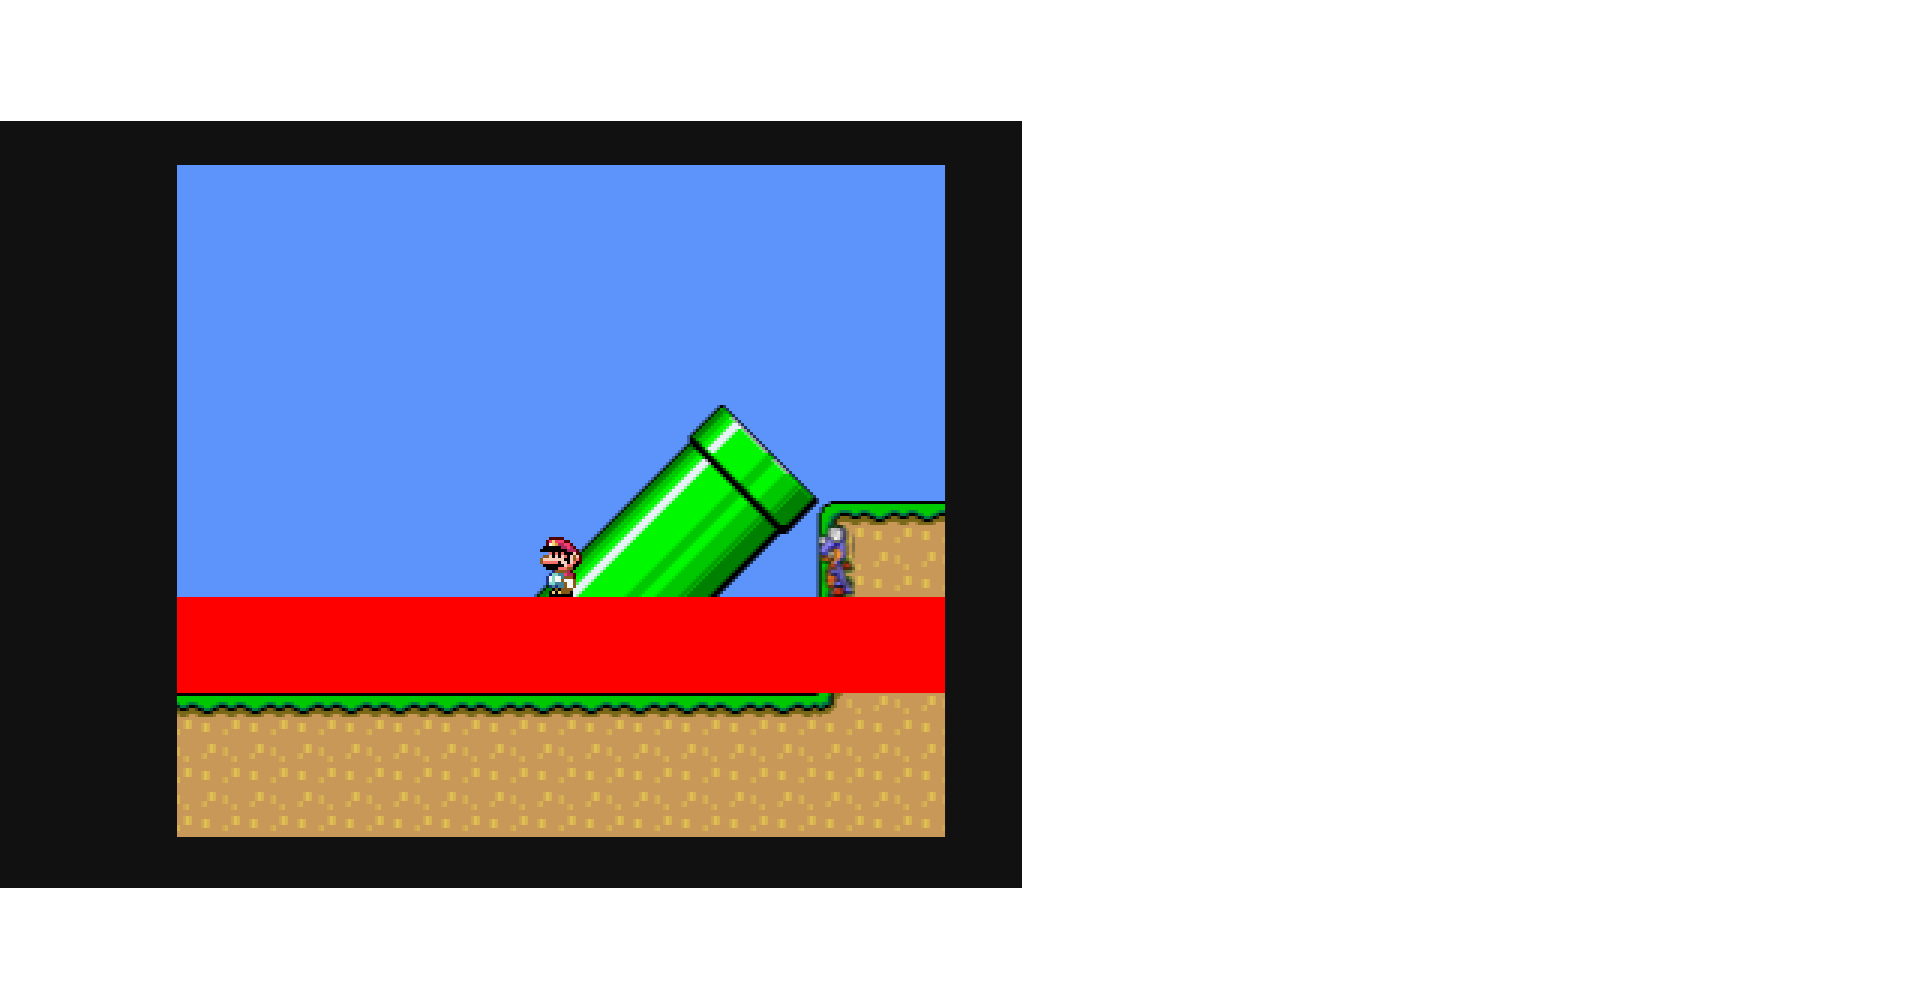
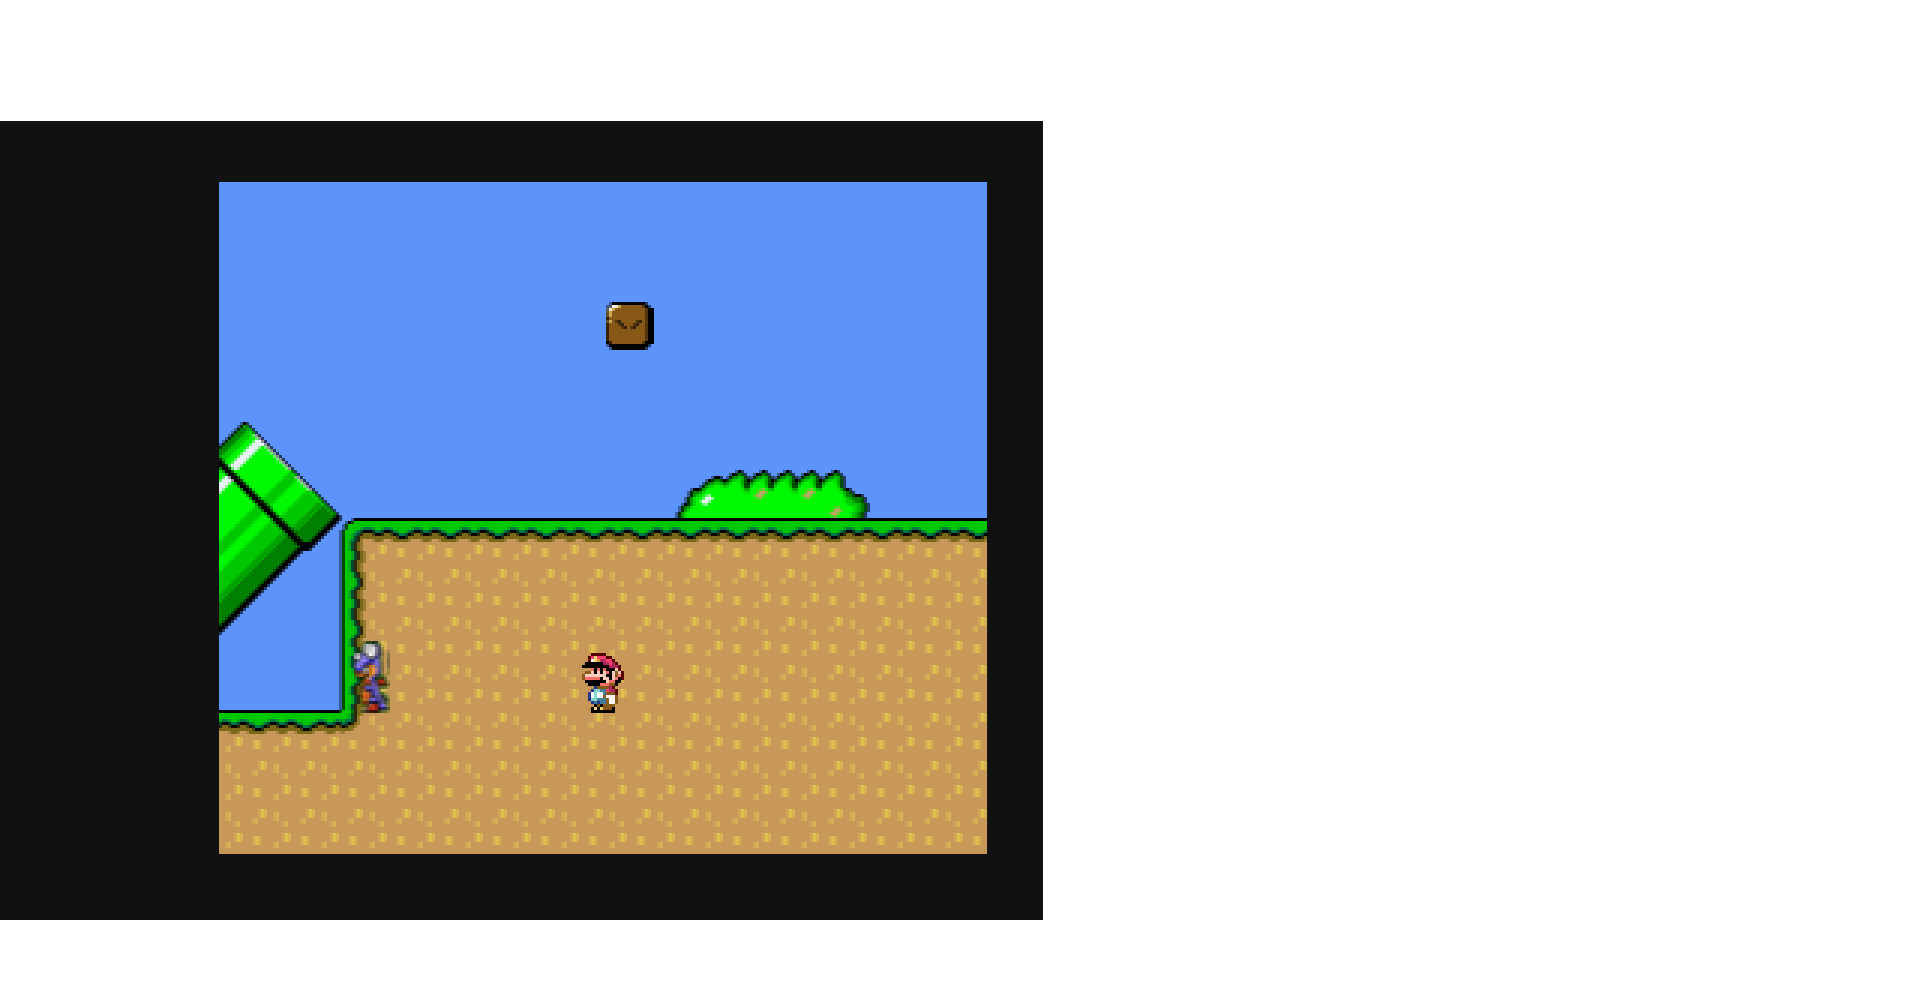
fix: Move pipe collision to correct position, jump=12, gravity=1.0

Changed region(s): [[0.0, 0.1221, 0.5537, 0.9461], [0.3076, 0.3052, 0.3384, 0.3662]]

diff --git a/projects/mario/static/game.html b/projects/mario/static/game.html
@@ -113,7 +113,7 @@
 --&gt;
 &lt;q:application id=&quot;yoshi-island-1&quot; type=&quot;game&quot; engine=&quot;2d&quot;&gt;
   &lt;qg:scene name=&quot;main&quot; width=&quot;5120&quot; height=&quot;432&quot; viewport-width=&quot;256&quot; viewport-height=&quot;224&quot; background=&quot;#5C94FC&quot;&gt;
-    &lt;qg:physics gravity-y=&quot;1.5&quot; /&gt;
+    &lt;qg:physics gravity-y=&quot;1.0&quot; /&gt;
     &lt;qg:camera follow=&quot;mario&quot; lerp=&quot;0.08&quot; bounds=&quot;scene&quot; offset-y=&quot;-80&quot; /&gt;
 
     &lt;!-- Game state --&gt;
@@ -173,51 +173,15 @@
     &lt;qg:sprite id=&quot;ground&quot; width=&quot;5120&quot; height=&quot;32&quot; x=&quot;2560&quot; y=&quot;401&quot;
                tag=&quot;terrain&quot; body=&quot;static&quot; visible=&quot;false&quot; /&gt;
 
-    &lt;!-- Diagonal pipe - DEBUG: visible green boxes --&gt;
-    &lt;qg:sprite id=&quot;pipe1-base&quot; width=&quot;48&quot; height=&quot;48&quot; x=&quot;924&quot; y=&quot;361&quot;
+    &lt;!-- Diagonal pipe near start (x≈180-280) - stair collision DEBUG --&gt;
+    &lt;qg:sprite id=&quot;pipe1-1&quot; width=&quot;40&quot; height=&quot;32&quot; x=&quot;200&quot; y=&quot;369&quot;
                tag=&quot;terrain&quot; body=&quot;static&quot; color=&quot;#00FF00&quot; /&gt;
-    &lt;qg:sprite id=&quot;pipe1-mid&quot; width=&quot;48&quot; height=&quot;48&quot; x=&quot;972&quot; y=&quot;329&quot;
+    &lt;qg:sprite id=&quot;pipe1-2&quot; width=&quot;40&quot; height=&quot;32&quot; x=&quot;230&quot; y=&quot;345&quot;
                tag=&quot;terrain&quot; body=&quot;static&quot; color=&quot;#00FF00&quot; /&gt;
-    &lt;qg:sprite id=&quot;pipe1-top&quot; width=&quot;48&quot; height=&quot;48&quot; x=&quot;1020&quot; y=&quot;297&quot;
+    &lt;qg:sprite id=&quot;pipe1-3&quot; width=&quot;40&quot; height=&quot;32&quot; x=&quot;260&quot; y=&quot;321&quot;
                tag=&quot;terrain&quot; body=&quot;static&quot; color=&quot;#00FF00&quot; /&gt;
-
-    &lt;!-- Vertical pipes (x=1100-1200) --&gt;
-    &lt;qg:sprite id=&quot;pipe2&quot; width=&quot;32&quot; height=&quot;64&quot; x=&quot;1136&quot; y=&quot;353&quot;
-               tag=&quot;terrain&quot; body=&quot;static&quot; visible=&quot;false&quot; /&gt;
-    &lt;qg:sprite id=&quot;pipe3&quot; width=&quot;32&quot; height=&quot;96&quot; x=&quot;1200&quot; y=&quot;337&quot;
-               tag=&quot;terrain&quot; body=&quot;static&quot; visible=&quot;false&quot; /&gt;
-
-    &lt;!-- Elevated platform section (x=2400-2800) --&gt;
-    &lt;qg:sprite id=&quot;platform1&quot; width=&quot;400&quot; height=&quot;32&quot; x=&quot;2600&quot; y=&quot;337&quot;
-               tag=&quot;terrain&quot; body=&quot;static&quot; visible=&quot;false&quot; /&gt;
-
-    &lt;!-- Ramp up to platform (x=2200-2400) - stair steps --&gt;
-    &lt;qg:sprite id=&quot;ramp1-1&quot; width=&quot;64&quot; height=&quot;16&quot; x=&quot;2232&quot; y=&quot;377&quot;
-               tag=&quot;terrain&quot; body=&quot;static&quot; visible=&quot;false&quot; /&gt;
-    &lt;qg:sprite id=&quot;ramp1-2&quot; width=&quot;64&quot; height=&quot;16&quot; x=&quot;2296&quot; y=&quot;361&quot;
-               tag=&quot;terrain&quot; body=&quot;static&quot; visible=&quot;false&quot; /&gt;
-    &lt;qg:sprite id=&quot;ramp1-3&quot; width=&quot;64&quot; height=&quot;16&quot; x=&quot;2360&quot; y=&quot;345&quot;
-               tag=&quot;terrain&quot; body=&quot;static&quot; visible=&quot;false&quot; /&gt;
-
-    &lt;!-- Ramp down from platform (x=2800-3000) --&gt;
-    &lt;qg:sprite id=&quot;ramp2-1&quot; width=&quot;64&quot; height=&quot;16&quot; x=&quot;2832&quot; y=&quot;345&quot;
-               tag=&quot;terrain&quot; body=&quot;static&quot; visible=&quot;false&quot; /&gt;
-    &lt;qg:sprite id=&quot;ramp2-2&quot; width=&quot;64&quot; height=&quot;16&quot; x=&quot;2896&quot; y=&quot;361&quot;
-               tag=&quot;terrain&quot; body=&quot;static&quot; visible=&quot;false&quot; /&gt;
-    &lt;qg:sprite id=&quot;ramp2-3&quot; width=&quot;64&quot; height=&quot;16&quot; x=&quot;2960&quot; y=&quot;377&quot;
-               tag=&quot;terrain&quot; body=&quot;static&quot; visible=&quot;false&quot; /&gt;
-
-    &lt;!-- Steps near end (x=4400-4600) --&gt;
-    &lt;qg:sprite id=&quot;step1&quot; width=&quot;64&quot; height=&quot;16&quot; x=&quot;4432&quot; y=&quot;377&quot;
-               tag=&quot;terrain&quot; body=&quot;static&quot; visible=&quot;false&quot; /&gt;
-    &lt;qg:sprite id=&quot;step2&quot; width=&quot;64&quot; height=&quot;16&quot; x=&quot;4496&quot; y=&quot;361&quot;
-               tag=&quot;terrain&quot; body=&quot;static&quot; visible=&quot;false&quot; /&gt;
-    &lt;qg:sprite id=&quot;step3&quot; width=&quot;64&quot; height=&quot;16&quot; x=&quot;4560&quot; y=&quot;345&quot;
-               tag=&quot;terrain&quot; body=&quot;static&quot; visible=&quot;false&quot; /&gt;
-
-    &lt;!-- Final pipe before goal --&gt;
-    &lt;qg:sprite id=&quot;pipe-final&quot; width=&quot;32&quot; height=&quot;64&quot; x=&quot;4800&quot; y=&quot;353&quot;
-               tag=&quot;terrain&quot; body=&quot;static&quot; visible=&quot;false&quot; /&gt;
+    &lt;qg:sprite id=&quot;pipe1-4&quot; width=&quot;40&quot; height=&quot;32&quot; x=&quot;290&quot; y=&quot;297&quot;
+               tag=&quot;terrain&quot; body=&quot;static&quot; color=&quot;#00FF00&quot; /&gt;
 
     &lt;!-- Question blocks (matching image positions) --&gt;
     &lt;qg:instance prefab=&quot;qblock&quot; id=&quot;qb1&quot; x=&quot;496&quot; y=&quot;256&quot; /&gt;
@@ -266,7 +230,7 @@
     &lt;qg:sprite id=&quot;mario&quot; src=&quot;assets/smw/sprites/mario_small.png&quot;
                x=&quot;80&quot; y=&quot;373&quot; tag=&quot;player&quot;
                frame-width=&quot;16&quot; frame-height=&quot;24&quot;
-               body=&quot;dynamic&quot; controls=&quot;arrows&quot; speed=&quot;2.5&quot; jump-force=&quot;9&quot; friction=&quot;0&quot;&gt;
+               body=&quot;dynamic&quot; controls=&quot;arrows&quot; speed=&quot;2.5&quot; jump-force=&quot;12&quot; friction=&quot;0&quot;&gt;
       &lt;qg:animation name=&quot;idle&quot; frames=&quot;0&quot; speed=&quot;0.1&quot; loop=&quot;true&quot; auto-play=&quot;true&quot; /&gt;
       &lt;qg:animation name=&quot;walk&quot; frames=&quot;1-3&quot; speed=&quot;0.18&quot; loop=&quot;true&quot; /&gt;
       &lt;qg:animation name=&quot;jump&quot; frames=&quot;4&quot; speed=&quot;0.1&quot; loop=&quot;false&quot; /&gt;
@@ -490,7 +454,7 @@ document.addEventListener('keydown', function(e) {
   // === MATTER.JS ENGINE ===
   const mEngine = Matter.Engine.create();
   mEngine.gravity.x = 0;
-  mEngine.gravity.y = 1.5;
+  mEngine.gravity.y = 1;
   // Increase solver iterations for tighter collision resolution
   mEngine.positionIterations = 10;
   mEngine.velocityIterations = 8;
@@ -740,178 +704,45 @@ document.addEventListener('keydown', function(e) {
   _bodyToSprite[_body_ground.id] = "ground";
   _sprites["ground"] = { id: "ground", sprite: _spr_ground, body: _body_ground, tag: "terrain", collisionHandlers: [], behaviors: [] };
 
-  const _spr_pipe1_base = new PIXI.Graphics();
-  _spr_pipe1_base.rect(-24.0, -24.0, 48.0, 48.0);
-  _spr_pipe1_base.fill({ color: 0x00FF00 });
-  _spr_pipe1_base.x = 924;
-  _spr_pipe1_base.y = 361;
-  _cameraContainer.addChild(_spr_pipe1_base);
-  const _body_pipe1_base = Matter.Bodies.rectangle(924, 361, 48, 48, { isStatic: true, restitution: 0.1, friction: 0.1, slop: 0.01 });
-  _bodyToSprite[_body_pipe1_base.id] = "pipe1-base";
-  _sprites["pipe1-base"] = { id: "pipe1-base", sprite: _spr_pipe1_base, body: _body_pipe1_base, tag: "terrain", collisionHandlers: [], behaviors: [] };
+  const _spr_pipe1_1 = new PIXI.Graphics();
+  _spr_pipe1_1.rect(-20.0, -16.0, 40.0, 32.0);
+  _spr_pipe1_1.fill({ color: 0x00FF00 });
+  _spr_pipe1_1.x = 200;
+  _spr_pipe1_1.y = 369;
+  _cameraContainer.addChild(_spr_pipe1_1);
+  const _body_pipe1_1 = Matter.Bodies.rectangle(200, 369, 40, 32, { isStatic: true, restitution: 0.1, friction: 0.1, slop: 0.01 });
+  _bodyToSprite[_body_pipe1_1.id] = "pipe1-1";
+  _sprites["pipe1-1"] = { id: "pipe1-1", sprite: _spr_pipe1_1, body: _body_pipe1_1, tag: "terrain", collisionHandlers: [], behaviors: [] };
 
-  const _spr_pipe1_mid = new PIXI.Graphics();
-  _spr_pipe1_mid.rect(-24.0, -24.0, 48.0, 48.0);
-  _spr_pipe1_mid.fill({ color: 0x00FF00 });
-  _spr_pipe1_mid.x = 972;
-  _spr_pipe1_mid.y = 329;
-  _cameraContainer.addChild(_spr_pipe1_mid);
-  const _body_pipe1_mid = Matter.Bodies.rectangle(972, 329, 48, 48, { isStatic: true, restitution: 0.1, friction: 0.1, slop: 0.01 });
-  _bodyToSprite[_body_pipe1_mid.id] = "pipe1-mid";
-  _sprites["pipe1-mid"] = { id: "pipe1-mid", sprite: _spr_pipe1_mid, body: _body_pipe1_mid, tag: "terrain", collisionHandlers: [], behaviors: [] };
+  const _spr_pipe1_2 = new PIXI.Graphics();
+  _spr_pipe1_2.rect(-20.0, -16.0, 40.0, 32.0);
+  _spr_pipe1_2.fill({ color: 0x00FF00 });
+  _spr_pipe1_2.x = 230;
+  _spr_pipe1_2.y = 345;
+  _cameraContainer.addChild(_spr_pipe1_2);
+  const _body_pipe1_2 = Matter.Bodies.rectangle(230, 345, 40, 32, { isStatic: true, restitution: 0.1, friction: 0.1, slop: 0.01 });
+  _bodyToSprite[_body_pipe1_2.id] = "pipe1-2";
+  _sprites["pipe1-2"] = { id: "pipe1-2", sprite: _spr_pipe1_2, body: _body_pipe1_2, tag: "terrain", collisionHandlers: [], behaviors: [] };
 
-  const _spr_pipe1_top = new PIXI.Graphics();
-  _spr_pipe1_top.rect(-24.0, -24.0, 48.0, 48.0);
-  _spr_pipe1_top.fill({ color: 0x00FF00 });
-  _spr_pipe1_top.x = 1020;
-  _spr_pipe1_top.y = 297;
-  _cameraContainer.addChild(_spr_pipe1_top);
-  const _body_pipe1_top = Matter.Bodies.rectangle(1020, 297, 48, 48, { isStatic: true, restitution: 0.1, friction: 0.1, slop: 0.01 });
-  _bodyToSprite[_body_pipe1_top.id] = "pipe1-top";
-  _sprites["pipe1-top"] = { id: "pipe1-top", sprite: _spr_pipe1_top, body: _body_pipe1_top, tag: "terrain", collisionHandlers: [], behaviors: [] };
+  const _spr_pipe1_3 = new PIXI.Graphics();
+  _spr_pipe1_3.rect(-20.0, -16.0, 40.0, 32.0);
+  _spr_pipe1_3.fill({ color: 0x00FF00 });
+  _spr_pipe1_3.x = 260;
+  _spr_pipe1_3.y = 321;
+  _cameraContainer.addChild(_spr_pipe1_3);
+  const _body_pipe1_3 = Matter.Bodies.rectangle(260, 321, 40, 32, { isStatic: true, restitution: 0.1, friction: 0.1, slop: 0.01 });
+  _bodyToSprite[_body_pipe1_3.id] = "pipe1-3";
+  _sprites["pipe1-3"] = { id: "pipe1-3", sprite: _spr_pipe1_3, body: _body_pipe1_3, tag: "terrain", collisionHandlers: [], behaviors: [] };
 
-  const _spr_pipe2 = new PIXI.Graphics();
-  _spr_pipe2.rect(-16.0, -32.0, 32.0, 64.0);
-  _spr_pipe2.fill({ color: 0x4a9eff });
-  _spr_pipe2.x = 1136;
-  _spr_pipe2.y = 353;
-  _spr_pipe2.visible = false;
-  _cameraContainer.addChild(_spr_pipe2);
-  const _body_pipe2 = Matter.Bodies.rectangle(1136, 353, 32, 64, { isStatic: true, restitution: 0.1, friction: 0.1, slop: 0.01 });
-  _bodyToSprite[_body_pipe2.id] = "pipe2";
-  _sprites["pipe2"] = { id: "pipe2", sprite: _spr_pipe2, body: _body_pipe2, tag: "terrain", collisionHandlers: [], behaviors: [] };
-
-  const _spr_pipe3 = new PIXI.Graphics();
-  _spr_pipe3.rect(-16.0, -48.0, 32.0, 96.0);
-  _spr_pipe3.fill({ color: 0x4a9eff });
-  _spr_pipe3.x = 1200;
-  _spr_pipe3.y = 337;
-  _spr_pipe3.visible = false;
-  _cameraContainer.addChild(_spr_pipe3);
-  const _body_pipe3 = Matter.Bodies.rectangle(1200, 337, 32, 96, { isStatic: true, restitution: 0.1, friction: 0.1, slop: 0.01 });
-  _bodyToSprite[_body_pipe3.id] = "pipe3";
-  _sprites["pipe3"] = { id: "pipe3", sprite: _spr_pipe3, body: _body_pipe3, tag: "terrain", collisionHandlers: [], behaviors: [] };
-
-  const _spr_platform1 = new PIXI.Graphics();
-  _spr_platform1.rect(-200.0, -16.0, 400.0, 32.0);
-  _spr_platform1.fill({ color: 0x4a9eff });
-  _spr_platform1.x = 2600;
-  _spr_platform1.y = 337;
-  _spr_platform1.visible = false;
-  _cameraContainer.addChild(_spr_platform1);
-  const _body_platform1 = Matter.Bodies.rectangle(2600, 337, 400, 32, { isStatic: true, restitution: 0.1, friction: 0.1, slop: 0.01 });
-  _bodyToSprite[_body_platform1.id] = "platform1";
-  _sprites["platform1"] = { id: "platform1", sprite: _spr_platform1, body: _body_platform1, tag: "terrain", collisionHandlers: [], behaviors: [] };
-
-  const _spr_ramp1_1 = new PIXI.Graphics();
-  _spr_ramp1_1.rect(-32.0, -8.0, 64.0, 16.0);
-  _spr_ramp1_1.fill({ color: 0x4a9eff });
-  _spr_ramp1_1.x = 2232;
-  _spr_ramp1_1.y = 377;
-  _spr_ramp1_1.visible = false;
-  _cameraContainer.addChild(_spr_ramp1_1);
-  const _body_ramp1_1 = Matter.Bodies.rectangle(2232, 377, 64, 16, { isStatic: true, restitution: 0.1, friction: 0.1, slop: 0.01 });
-  _bodyToSprite[_body_ramp1_1.id] = "ramp1-1";
-  _sprites["ramp1-1"] = { id: "ramp1-1", sprite: _spr_ramp1_1, body: _body_ramp1_1, tag: "terrain", collisionHandlers: [], behaviors: [] };
-
-  const _spr_ramp1_2 = new PIXI.Graphics();
-  _spr_ramp1_2.rect(-32.0, -8.0, 64.0, 16.0);
-  _spr_ramp1_2.fill({ color: 0x4a9eff });
-  _spr_ramp1_2.x = 2296;
-  _spr_ramp1_2.y = 361;
-  _spr_ramp1_2.visible = false;
-  _cameraContainer.addChild(_spr_ramp1_2);
-  const _body_ramp1_2 = Matter.Bodies.rectangle(2296, 361, 64, 16, { isStatic: true, restitution: 0.1, friction: 0.1, slop: 0.01 });
-  _bodyToSprite[_body_ramp1_2.id] = "ramp1-2";
-  _sprites["ramp1-2"] = { id: "ramp1-2", sprite: _spr_ramp1_2, body: _body_ramp1_2, tag: "terrain", collisionHandlers: [], behaviors: [] };
-
-  const _spr_ramp1_3 = new PIXI.Graphics();
-  _spr_ramp1_3.rect(-32.0, -8.0, 64.0, 16.0);
-  _spr_ramp1_3.fill({ color: 0x4a9eff });
-  _spr_ramp1_3.x = 2360;
-  _spr_ramp1_3.y = 345;
-  _spr_ramp1_3.visible = false;
-  _cameraContainer.addChild(_spr_ramp1_3);
-  const _body_ramp1_3 = Matter.Bodies.rectangle(2360, 345, 64, 16, { isStatic: true, restitution: 0.1, friction: 0.1, slop: 0.01 });
-  _bodyToSprite[_body_ramp1_3.id] = "ramp1-3";
-  _sprites["ramp1-3"] = { id: "ramp1-3", sprite: _spr_ramp1_3, body: _body_ramp1_3, tag: "terrain", collisionHandlers: [], behaviors: [] };
-
-  const _spr_ramp2_1 = new PIXI.Graphics();
-  _spr_ramp2_1.rect(-32.0, -8.0, 64.0, 16.0);
-  _spr_ramp2_1.fill({ color: 0x4a9eff });
-  _spr_ramp2_1.x = 2832;
-  _spr_ramp2_1.y = 345;
-  _spr_ramp2_1.visible = false;
-  _cameraContainer.addChild(_spr_ramp2_1);
-  const _body_ramp2_1 = Matter.Bodies.rectangle(2832, 345, 64, 16, { isStatic: true, restitution: 0.1, friction: 0.1, slop: 0.01 });
-  _bodyToSprite[_body_ramp2_1.id] = "ramp2-1";
-  _sprites["ramp2-1"] = { id: "ramp2-1", sprite: _spr_ramp2_1, body: _body_ramp2_1, tag: "terrain", collisionHandlers: [], behaviors: [] };
-
-  const _spr_ramp2_2 = new PIXI.Graphics();
-  _spr_ramp2_2.rect(-32.0, -8.0, 64.0, 16.0);
-  _spr_ramp2_2.fill({ color: 0x4a9eff });
-  _spr_ramp2_2.x = 2896;
-  _spr_ramp2_2.y = 361;
-  _spr_ramp2_2.visible = false;
-  _cameraContainer.addChild(_spr_ramp2_2);
-  const _body_ramp2_2 = Matter.Bodies.rectangle(2896, 361, 64, 16, { isStatic: true, restitution: 0.1, friction: 0.1, slop: 0.01 });
-  _bodyToSprite[_body_ramp2_2.id] = "ramp2-2";
-  _sprites["ramp2-2"] = { id: "ramp2-2", sprite: _spr_ramp2_2, body: _body_ramp2_2, tag: "terrain", collisionHandlers: [], behaviors: [] };
-
-  const _spr_ramp2_3 = new PIXI.Graphics();
-  _spr_ramp2_3.rect(-32.0, -8.0, 64.0, 16.0);
-  _spr_ramp2_3.fill({ color: 0x4a9eff });
-  _spr_ramp2_3.x = 2960;
-  _spr_ramp2_3.y = 377;
-  _spr_ramp2_3.visible = false;
-  _cameraContainer.addChild(_spr_ramp2_3);
-  const _body_ramp2_3 = Matter.Bodies.rectangle(2960, 377, 64, 16, { isStatic: true, restitution: 0.1, friction: 0.1, slop: 0.01 });
-  _bodyToSprite[_body_ramp2_3.id] = "ramp2-3";
-  _sprites["ramp2-3"] = { id: "ramp2-3", sprite: _spr_ramp2_3, body: _body_ramp2_3, tag: "terrain", collisionHandlers: [], behaviors: [] };
-
-  const _spr_step1 = new PIXI.Graphics();
-  _spr_step1.rect(-32.0, -8.0, 64.0, 16.0);
-  _spr_step1.fill({ color: 0x4a9eff });
-  _spr_step1.x = 4432;
-  _spr_step1.y = 377;
-  _spr_step1.visible = false;
-  _cameraContainer.addChild(_spr_step1);
-  const _body_step1 = Matter.Bodies.rectangle(4432, 377, 64, 16, { isStatic: true, restitution: 0.1, friction: 0.1, slop: 0.01 });
-  _bodyToSprite[_body_step1.id] = "step1";
-  _sprites["step1"] = { id: "step1", sprite: _spr_step1, body: _body_step1, tag: "terrain", collisionHandlers: [], behaviors: [] };
-
-  const _spr_step2 = new PIXI.Graphics();
-  _spr_step2.rect(-32.0, -8.0, 64.0, 16.0);
-  _spr_step2.fill({ color: 0x4a9eff });
-  _spr_step2.x = 4496;
-  _spr_step2.y = 361;
-  _spr_step2.visible = false;
-  _cameraContainer.addChild(_spr_step2);
-  const _body_step2 = Matter.Bodies.rectangle(4496, 361, 64, 16, { isStatic: true, restitution: 0.1, friction: 0.1, slop: 0.01 });
-  _bodyToSprite[_body_step2.id] = "step2";
-  _sprites["step2"] = { id: "step2", sprite: _spr_step2, body: _body_step2, tag: "terrain", collisionHandlers: [], behaviors: [] };
-
-  const _spr_step3 = new PIXI.Graphics();
-  _spr_step3.rect(-32.0, -8.0, 64.0, 16.0);
-  _spr_step3.fill({ color: 0x4a9eff });
-  _spr_step3.x = 4560;
-  _spr_step3.y = 345;
-  _spr_step3.visible = false;
-  _cameraContainer.addChild(_spr_step3);
-  const _body_step3 = Matter.Bodies.rectangle(4560, 345, 64, 16, { isStatic: true, restitution: 0.1, friction: 0.1, slop: 0.01 });
-  _bodyToSprite[_body_step3.id] = "step3";
-  _sprites["step3"] = { id: "step3", sprite: _spr_step3, body: _body_step3, tag: "terrain", collisionHandlers: [], behaviors: [] };
-
-  const _spr_pipe_final = new PIXI.Graphics();
-  _spr_pipe_final.rect(-16.0, -32.0, 32.0, 64.0);
-  _spr_pipe_final.fill({ color: 0x4a9eff });
-  _spr_pipe_final.x = 4800;
-  _spr_pipe_final.y = 353;
-  _spr_pipe_final.visible = false;
-  _cameraContainer.addChild(_spr_pipe_final);
-  const _body_pipe_final = Matter.Bodies.rectangle(4800, 353, 32, 64, { isStatic: true, restitution: 0.1, friction: 0.1, slop: 0.01 });
-  _bodyToSprite[_body_pipe_final.id] = "pipe-final";
-  _sprites["pipe-final"] = { id: "pipe-final", sprite: _spr_pipe_final, body: _body_pipe_final, tag: "terrain", collisionHandlers: [], behaviors: [] };
+  const _spr_pipe1_4 = new PIXI.Graphics();
+  _spr_pipe1_4.rect(-20.0, -16.0, 40.0, 32.0);
+  _spr_pipe1_4.fill({ color: 0x00FF00 });
+  _spr_pipe1_4.x = 290;
+  _spr_pipe1_4.y = 297;
+  _cameraContainer.addChild(_spr_pipe1_4);
+  const _body_pipe1_4 = Matter.Bodies.rectangle(290, 297, 40, 32, { isStatic: true, restitution: 0.1, friction: 0.1, slop: 0.01 });
+  _bodyToSprite[_body_pipe1_4.id] = "pipe1-4";
+  _sprites["pipe1-4"] = { id: "pipe1-4", sprite: _spr_pipe1_4, body: _body_pipe1_4, tag: "terrain", collisionHandlers: [], behaviors: [] };
 
   const _qb1_baseTex = PIXI.Assets.get("assets/smw/sprites/qblock_animated.png");
   const _qb1_src = _qb1_baseTex.source || _qb1_baseTex.baseTexture || _qb1_baseTex;
@@ -1376,7 +1207,7 @@ document.addEventListener('keydown', function(e) {
   _bodyToSprite[_body_deathzone.id] = "deathzone";
   _sprites["deathzone"] = { id: "deathzone", sprite: _spr_deathzone, body: _body_deathzone, tag: "death", collisionHandlers: [], behaviors: [] };
 
-  Matter.Composite.add(mWorld, [_body_ground, _body_pipe1_base, _body_pipe1_mid, _body_pipe1_top, _body_pipe2, _body_pipe3, _body_platform1, _body_ramp1_1, _body_ramp1_2, _body_ramp1_3, _body_ramp2_1, _body_ramp2_2, _body_ramp2_3, _body_step1, _body_step2, _body_step3, _body_pipe_final, _body_qb1, _body_qb2, _body_qb3, _body_qb4, _body_qb5, _body_qb6, _body_qb7, _body_coin_7, _body_coin_8, _body_coin_9, _body_coin_10, _body_coin_11, _body_coin_12, _body_coin_13, _body_coin_14, _body_coin_15, _body_coin_16, _body_coin_17, _body_coin_18, _body_coin_19, _body_coin_20, _body_rex1, _body_rex2, _body_rex3, _body_rex4, _body_rex5, _body_rex6, _body_rex7, _body_rex8, _body_rex9, _body_rex10, _body_rex11, _body_rex12, _body_goal, _body_mario, _body_deathzone]);
+  Matter.Composite.add(mWorld, [_body_ground, _body_pipe1_1, _body_pipe1_2, _body_pipe1_3, _body_pipe1_4, _body_qb1, _body_qb2, _body_qb3, _body_qb4, _body_qb5, _body_qb6, _body_qb7, _body_coin_7, _body_coin_8, _body_coin_9, _body_coin_10, _body_coin_11, _body_coin_12, _body_coin_13, _body_coin_14, _body_coin_15, _body_coin_16, _body_coin_17, _body_coin_18, _body_coin_19, _body_coin_20, _body_rex1, _body_rex2, _body_rex3, _body_rex4, _body_rex5, _body_rex6, _body_rex7, _body_rex8, _body_rex9, _body_rex10, _body_rex11, _body_rex12, _body_goal, _body_mario, _body_deathzone]);
 
   function syncPhysics() {
     for (const [id, info] of Object.entries(_sprites)) {
@@ -2654,7 +2485,7 @@ document.addEventListener('keydown', function(e) {
     }
     const _canJump_mario = _isGrounded_mario || _sprites["mario"]._coyoteFrames > 0;
     if (_jumpJust_mario && _sprites["mario"].body && _canJump_mario) {
-      Matter.Body.setVelocity(_sprites["mario"].body, { x: _sprites["mario"].body.velocity.x, y: -9 });
+      Matter.Body.setVelocity(_sprites["mario"].body, { x: _sprites["mario"].body.velocity.x, y: -12 });
       _sprites["mario"]._jumpHeld = true;
       _sprites["mario"]._coyoteFrames = 0;
       _gameEvents.emit('player.jump', _sprites["mario"]);
